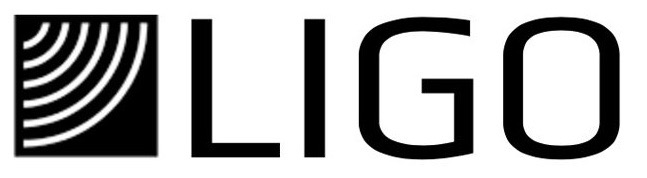
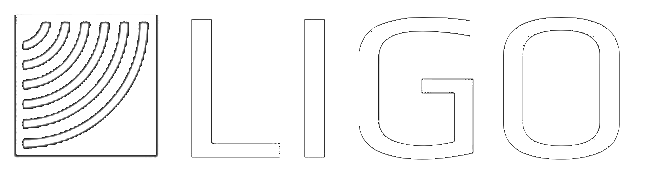
ye

diff --git a/about.html b/about.html
@@ -142,25 +142,31 @@
           <td>
             <div class="tl-content">
               <div style="height:210px;"><span class="tl-line"></span></div>
-              <p>Joined Bernien Lab</p>
-              <p> Graduate Researcher</p>
-            <div class="timeline_photo">
             <a href="http://bernienlab.com/">
-              <img src="images/bernienlabBW.png" class="off bern">
-              <img src="images/bernienlab.png" class="on bern">
+              <div class="timeline_photo">
+                <p>Joined Bernien Lab</p>
+                <p> Graduate Researcher</p>
+                <img src="images/bernienlabBW.png" class="off bern">
+                <img src="images/bernienlab.png" class="on bern">
+              </div>
             </a>
-          </div>
               <div style="height:160px;"><span class="tl-line"></span></div>
+          <a href="https://mggg.org">
+            <div class="timeline_photo">
               <p>Metric Geometry and Gerrymandering Group</p>
               <p>Summer Researcher</p>
-            <a href="https://mggg.org">
-              <img src="images/mggg.png" alt="" style="width:209px;height:50px;">
+              <img src="images/mgggBW.png" class="off mggg">
+              <img src="images/mggg.png" class="on mggg">
+            </div>
             </a>
               <div style="height:200px;"><span class="tl-line"></span></div>
+          <a href="https://www.ligo.caltech.edu/">
+            <div class="timeline_photo">
               <p>LIGO Lab, Caltech</p>
               <p>Summer Researcher</p>
-            <a href="https://www.ligo.caltech.edu/">
-              <img src="images/ligo.png" alt="" style="width:218px;height:60px;">
+              <img src="images/ligoBW.png" class="off ligo">
+              <img src="images/ligo.png" class="on ligo">
+            </div>
             </a>
               <div style="height:50px;"><span class="tl-line"></span></div>
               <p>Tobin Lab, Tufts</p>
@@ -174,35 +180,33 @@
           <td>
             <div class="tl-content">
               <div style="height:10px;"><span class="tl-line"></span></div>
+          <a href="https://www.nsfgrfp.org/" >
             <div class="timeline_photo">
-
               <p>Awarded GRFP</p>
               <p>NSF</p>
-            <a href="https://www.nsfgrfp.org/" >
               <img src="images/GRFPBW.png" class="off grfp">
               <img src="images/GRFP.png" class="on grfp">
-            </a>
-          </div>
-              <div style="height:160px;"><span class="tl-line"></span></div>
-          <a href="https://physics.uchicago.edu/"">
-          <div class="timeline_photo">
+            </div>
+          </a>
 
+              <div style="height:160px;"><span class="tl-line"></span></div>
+          <a href="https://physics.uchicago.edu/">
+            <div class="timeline_photo">
                 <p>Began Ph.D in Physics</p>
                 <p>University of Chicago</p>
                 <img src="images/UCBW.png" class="off uc">
                 <img src="images/UC.png" class="on uc">
-
-          </div>
+              </div>
           </a>
               <div style="height:150px;"><span class="tl-line"></span></div>
+          <a href=https://as.tufts.edu/physics/>
             <div class="timeline_photo">
               <p>B.S. in Physics</p>
               <p> Tufts University</p>
-              <a href=https://as.tufts.edu/physics/>
               <img src="images/TuftsBW.png" class="off tufts" >
               <img src="images/Tufts.png" class="on tufts">
-            </a>
-          </div>
+            </div>
+          </a>
               <div style="height:25px;"><span class="tl-line"></span></div>
             </div>
           </td>

diff --git a/css/responsive.css b/css/responsive.css
@@ -106,6 +106,9 @@
   position: relative;
   display: inline-block;
   color:black;
+  padding-bottom: 15px;
+  padding-left: 15px;
+  padding-right: 15px;
 }
 
 .timeline_photo img{
@@ -130,9 +133,7 @@
   background-color: #333333;
   color:white;
   border-radius: 10px;
-  padding-bottom: 15px;
-  padding-left: 15px;
-  padding-right: 15px;
+
 }
 
 .tufts{
@@ -153,6 +154,16 @@
 .bern{
   width:190px;
   height:80px;
+}
+
+.mggg{
+  width:209px;
+  height:50px;
+}
+
+.ligo{
+  width:218px;
+  height:60px;
 }
 
 @media (max-width: 480px) {}
